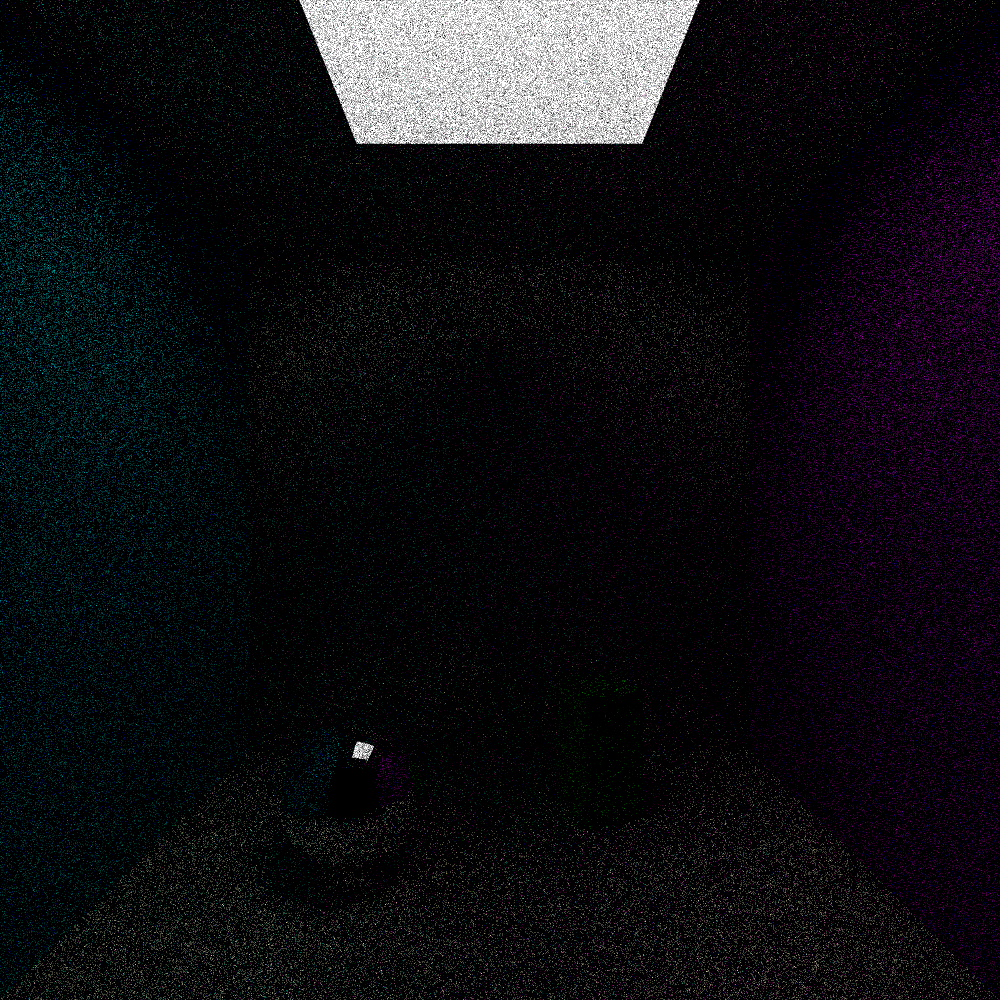
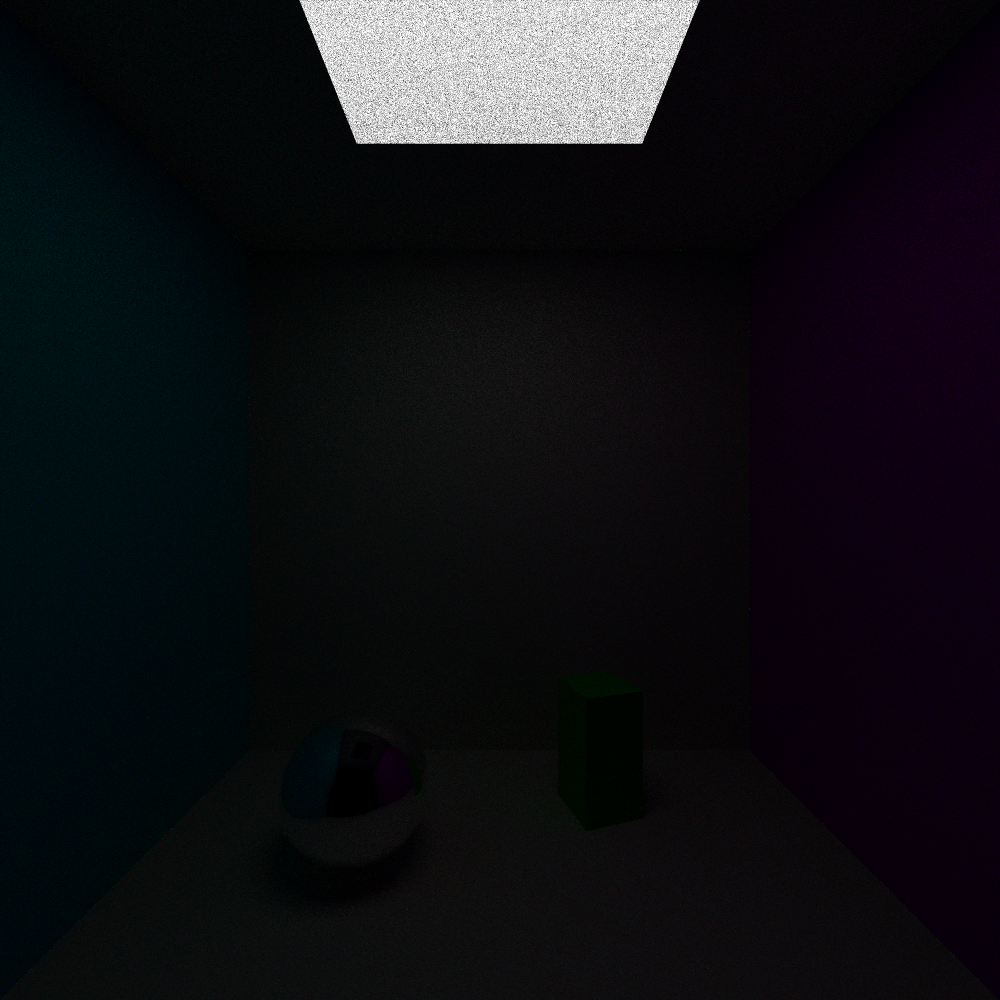
add next event estimation to path tracer

diff --git a/src/tracer/integrators.rs b/src/tracer/integrators.rs
@@ -25,10 +25,37 @@ impl Integrator for PathTracingIntegrator {
             Some(h) => {
                 let material = h.object.material();
 
+                let emit = if depth == 0 {
+                    material.emit(&h)
+                } else {
+                    DVec3::ZERO
+                };
+
                 match material.bsdf(&h, r) {
                     Some(sr) => self.integrate(&sr, depth + 1),
                     None => {
+                        let light = self.scene.uniform_random_light();
+
+                        let pdf_light = ObjectPdf::new(light, h.p);
+                        let rl = Ray::new(
+                            h.p,
+                            pdf_light.generate_dir(
+                                rand_utils::rand_unit_square()
+                            ),
+                        );
+
                         let pdf_scatter = CosPdf::new(h.norm);
+                        /* if hit light, we dont scatter. move pdfs somerehwer else */
+
+                        let lc = match self.scene.hit_light(&rl, light) {
+                            None => DVec3::ZERO,
+                            Some(hl) => {
+                                material.albedo_at(h.p)
+                                    * pdf_scatter.pdf_val(rl.dir)
+                                    / pdf_light.pdf_val(rl.dir)
+                            }
+                        };
+
                         let r = Ray::new(
                             h.p,
                             pdf_scatter.generate_dir(
@@ -36,7 +63,7 @@ impl Integrator for PathTracingIntegrator {
                             ),
                         );
 
-                        material.emit(&h)
+                        emit + lc
                             + material.albedo_at(h.p)
                             * self.integrate(&r, depth + 1)
                             * h.norm.dot(r.dir.normalize())
